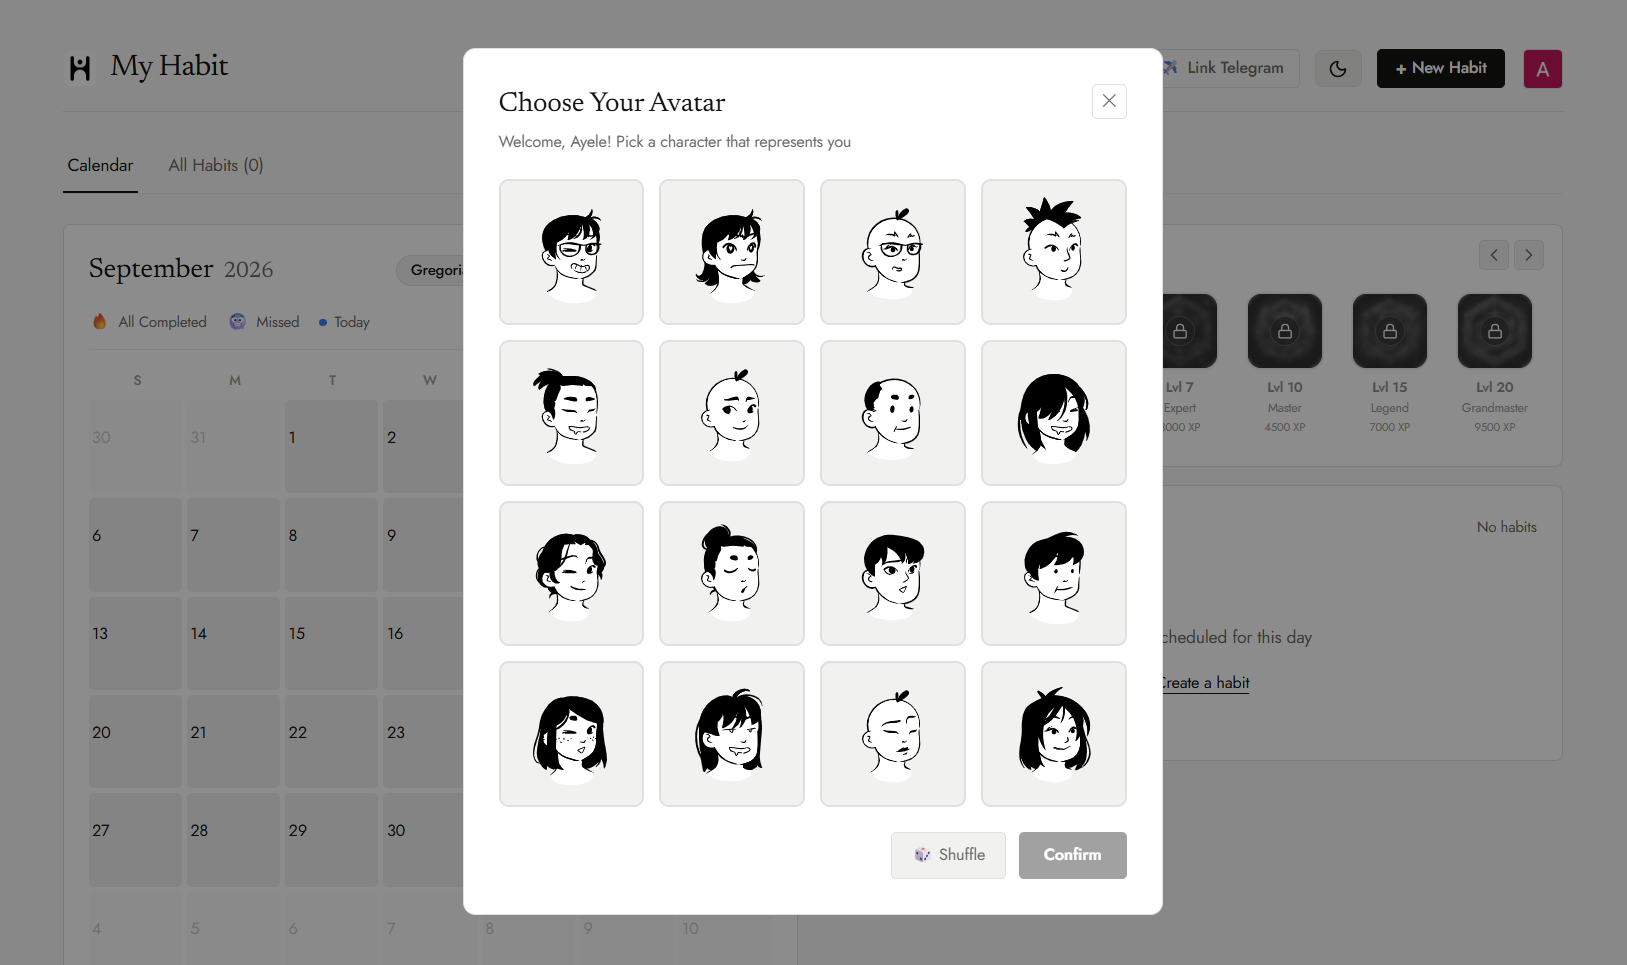
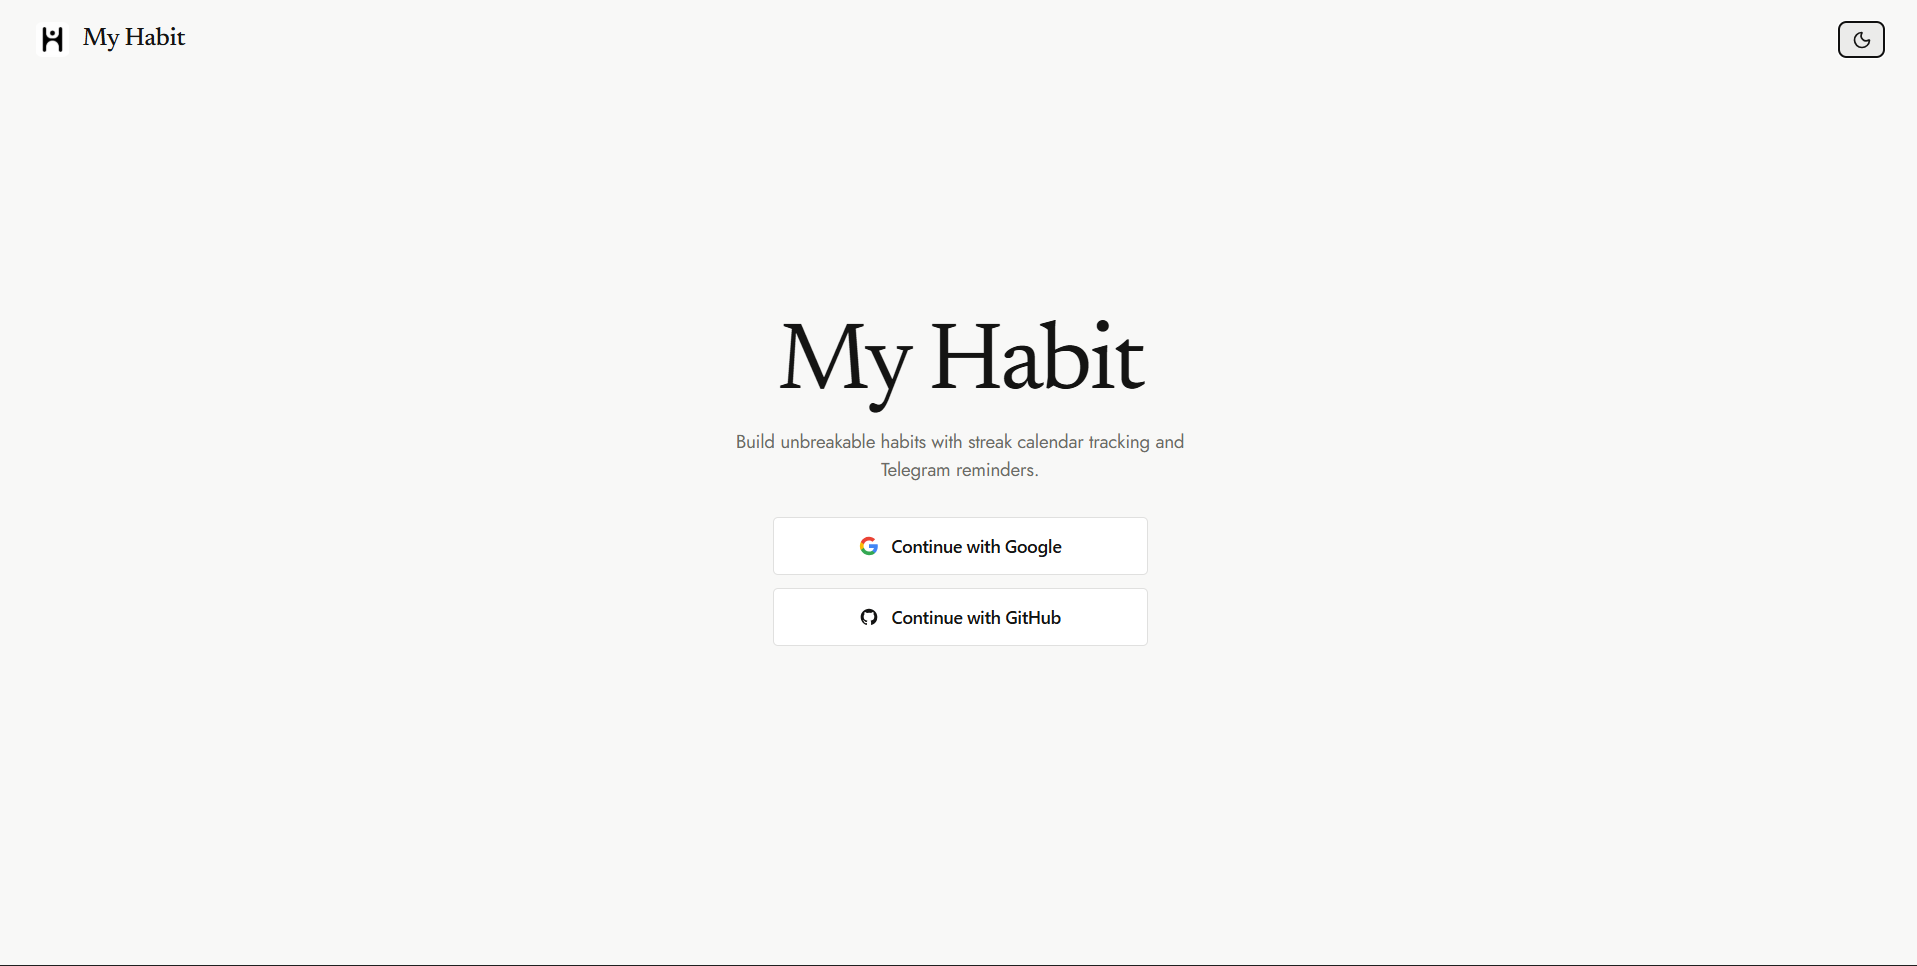
feat: add resume context, project thumbnails, navbar component, and asset images

diff --git a/app/_data/resume-context.js b/app/_data/resume-context.js
@@ -52,16 +52,16 @@ export const RESUME_CONTEXT = {
         'Retail e-commerce and inventory stock management platform (https://serdo.et) built with Laravel, Inertia.js, and React.js featuring real-time stock alerts, revenue analytics, and automated tax reporting.',
     },
     {
-      name: 'Placeopia',
-      slug: 'placeopia',
-      summary:
-        'Urban experience and venue discovery platform designed in Figma, featuring a React Native mobile application powered by a scalable Laravel backend API.',
-    },
-    {
       name: 'My Habit',
       slug: 'my-habit',
       summary:
         'A habit tracking web platform (https://my-habit.pro.et) integrated with an interactive Telegram bot, featuring calendar tracking, streak analytics, and an XP-based leveling journey.',
+    },
+    {
+      name: 'Placeopia',
+      slug: 'placeopia',
+      summary:
+        'Urban experience and venue discovery platform designed in Figma, featuring a React Native mobile application powered by a scalable Laravel backend API.',
     },
     {
       name: 'Space Invaders',
@@ -86,10 +86,9 @@ export function getLocalBotResponse(query) {
 1. **NODD Ticket**: An enterprise task management platform replacing ClickUp for a Sydney-based client (Kanban/List/Calendar views, Gmail integration).
 2. **Excelet Academy**: An e-learning & national exam prep app serving 1,000+ Ethiopian students.
 3. **Serdo Store**: Retail inventory & stock management platform with automated revenue analytics.
-4. **Placeopia**: Urban destination discovery app and venue management platform.
-5. **My Habit**: A habit tracking platform with Telegram bot automation, streak calendar tracking, and a level journey (https://my-habit.pro.et).
+4. **My Habit**: A habit tracking platform with Telegram bot automation, streak calendar tracking, and a level journey (https://my-habit.pro.et).
 
-You can click any project on this page to view interactive case studies and media demos!`;
+You can click any project on this page to view interactive case studies and media demos, or click "view more" to explore additional projects like Placeopia and Space Invaders!`;
   }
 
   if (

diff --git a/app/_layout/navbar/index.jsx b/app/_layout/navbar/index.jsx
@@ -1,51 +1,14 @@
 'use client';
 
-import { Github, Mail } from 'lucide-react';
-import Link from 'next/link';
-
-import { navItems } from '@/data';
-
 import { ThemeToggle } from './theme-toggle';
 
 export function Navbar() {
   return (
-    <nav className='sticky top-0 z-50 border-b border-border/50 bg-background/80 backdrop-blur-lg'>
-      <div className='section-container flex items-center justify-between py-3'>
-        {/* Nav links */}
-        <ul className='flex items-center gap-1'>
-          {navItems.map(({ href, title }) => (
-            <li key={title}>
-              <Link
-                href={href}
-                className='rounded-none px-3 py-1.5 text-sm font-medium text-muted-foreground transition-colors hover:bg-muted hover:text-foreground'
-              >
-                {title}
-              </Link>
-            </li>
-          ))}
-        </ul>
-
-        {/* Right icons */}
-        <div className='flex items-center gap-1'>
-          <a
-            href='https://www.github.com/birukl7/'
-            target='_blank'
-            rel='noopener noreferrer'
-            className='social-icon'
-            aria-label='GitHub'
-          >
-            <Github size={18} />
-          </a>
-          <a
-            href='mailto:biruklemmadebela@gmail.com'
-            className='social-icon'
-            aria-label='Email'
-          >
-            <Mail size={18} />
-          </a>
-          <ThemeToggle />
-        </div>
-      </div>
-    </nav>
+    <div className='section-container flex items-center justify-end pb-2 pt-6'>
+      <ThemeToggle />
+    </div>
   );
 }
+
+export const TopBar = Navbar;
+export { ThemeToggle } from './theme-toggle';

diff --git a/app/_data/thumbnail-options.js b/app/_data/thumbnail-options.js
@@ -33,17 +33,6 @@ export const thumbnailOptions = [
     featured: true,
   },
   {
-    href: '/placeopia',
-    title: 'Placeopia',
-    image: 'placeopia_anuadh',
-    description:
-      'Urban experience & venue discovery app designed in Figma, powered by React Native and Laravel.',
-    type: 'Urban experience & venue discovery app designed in Figma, powered by React Native and Laravel.',
-    source: null,
-    link: null,
-    featured: true,
-  },
-  {
     href: '/my-habit',
     title: 'My Habit',
     image: '/my-habit-1.png',
@@ -53,6 +42,17 @@ export const thumbnailOptions = [
     source: null,
     link: 'https://my-habit.pro.et',
     featured: true,
+  },
+  {
+    href: '/placeopia',
+    title: 'Placeopia',
+    image: 'placeopia_anuadh',
+    description:
+      'Urban experience & venue discovery app designed in Figma, powered by React Native and Laravel.',
+    type: 'Urban experience & venue discovery app designed in Figma, powered by React Native and Laravel.',
+    source: null,
+    link: null,
+    featured: false,
   },
   {
     href: '/space-invaders',
